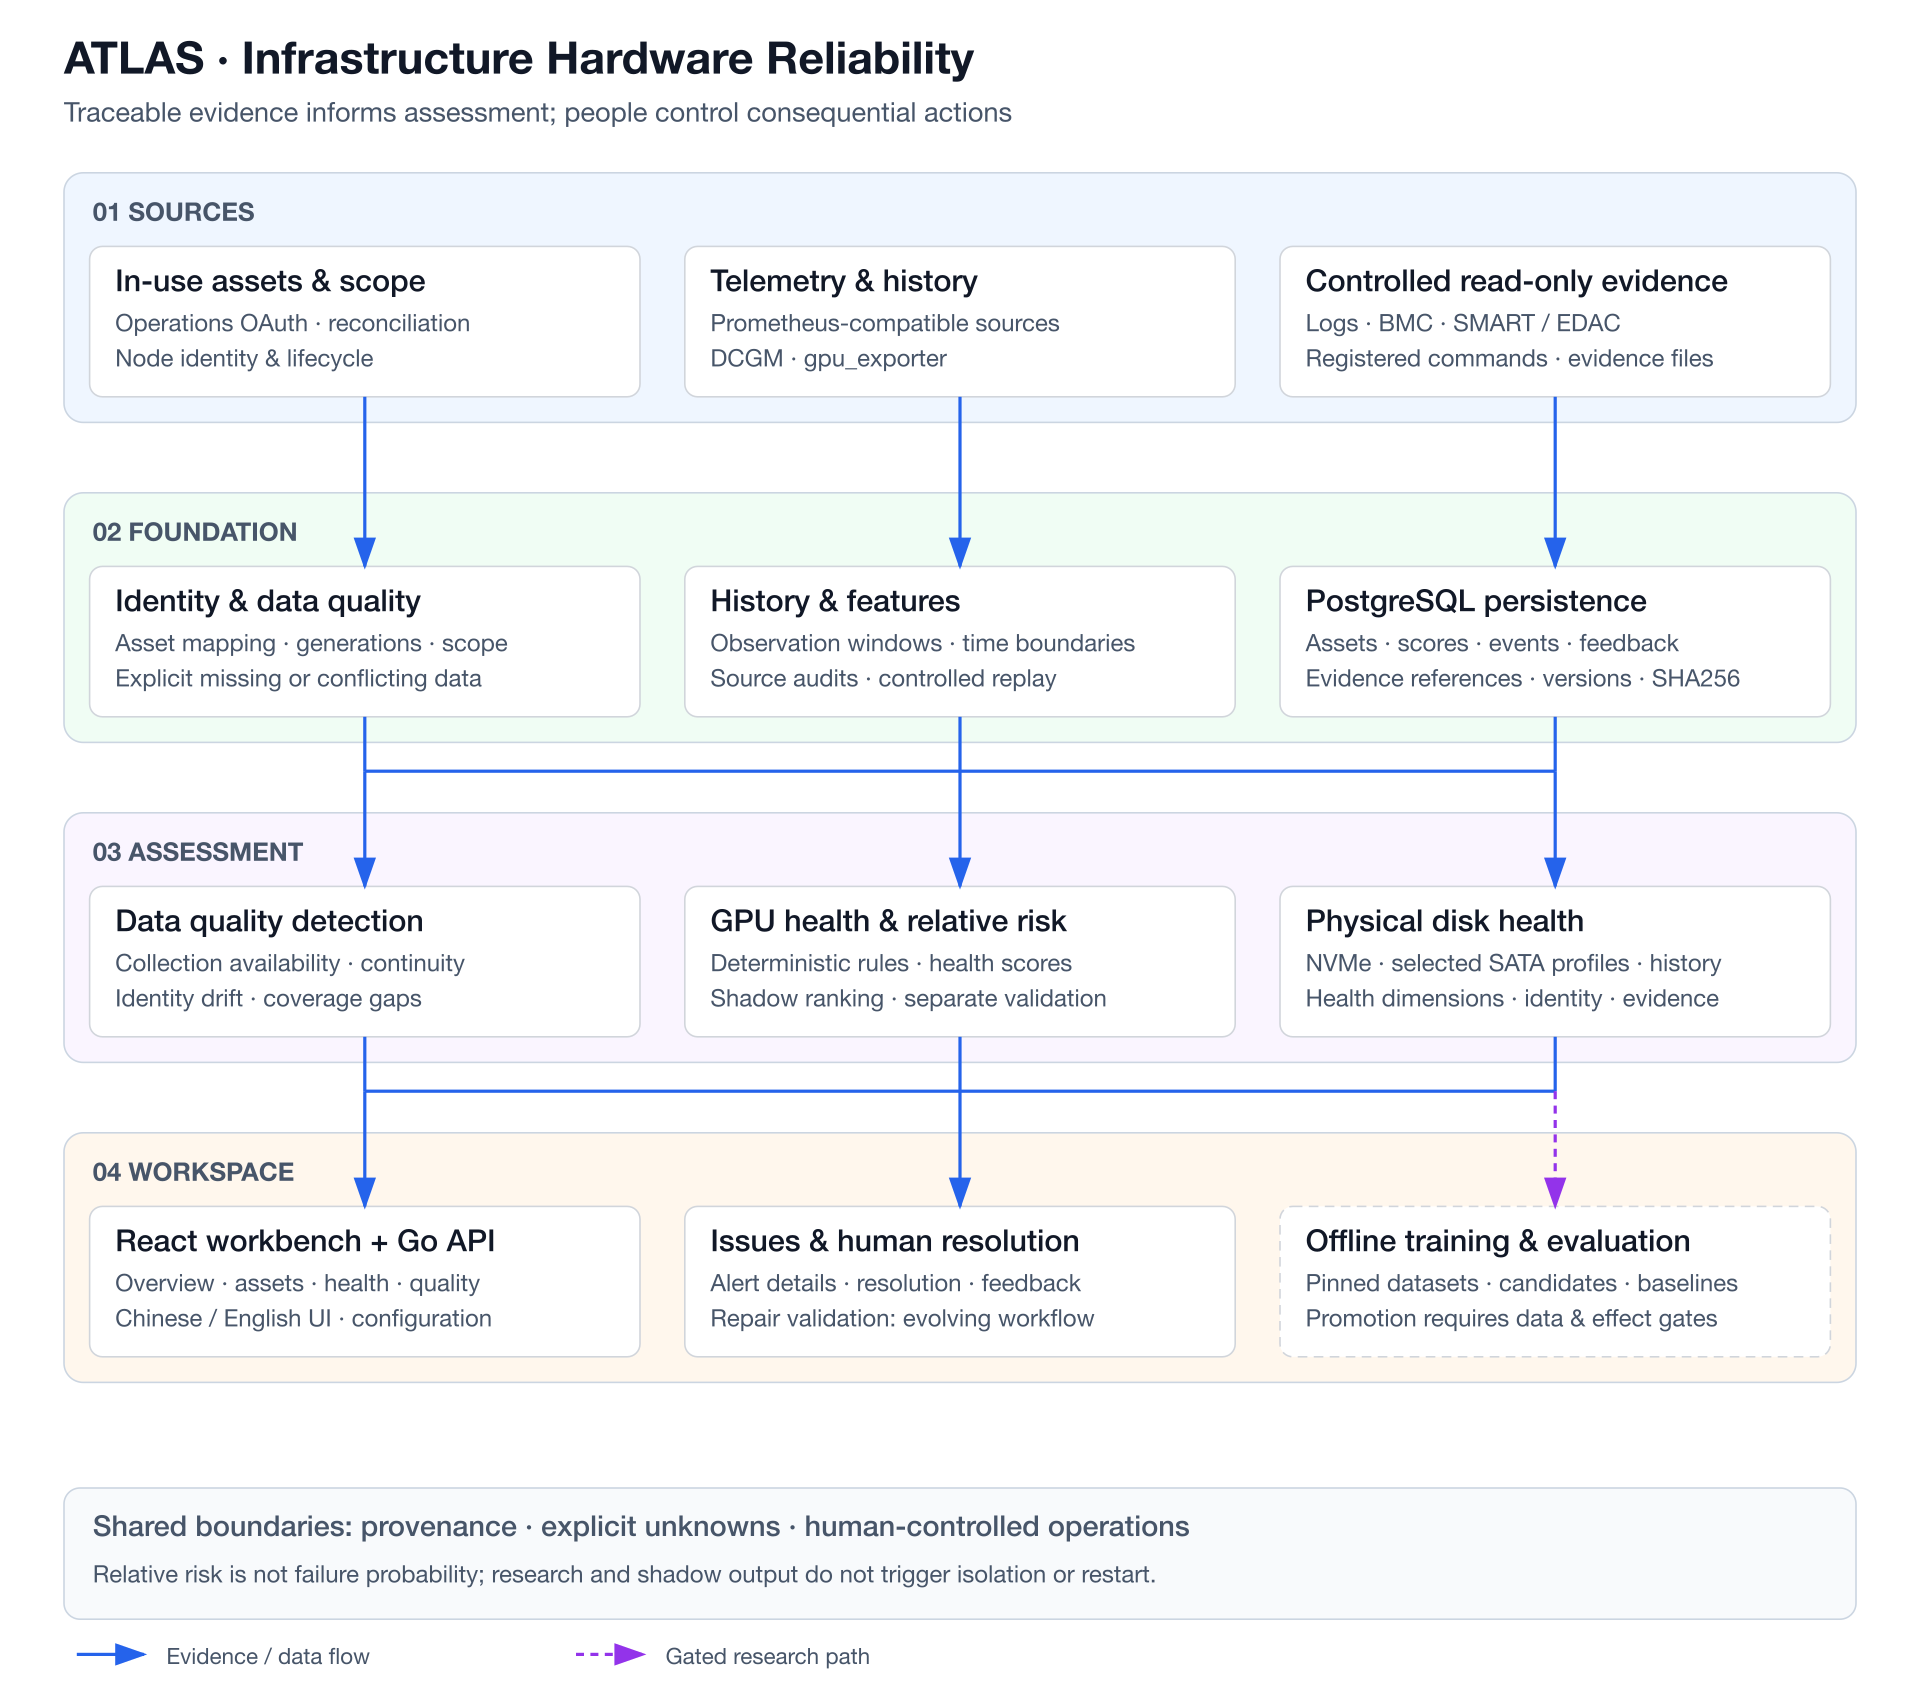
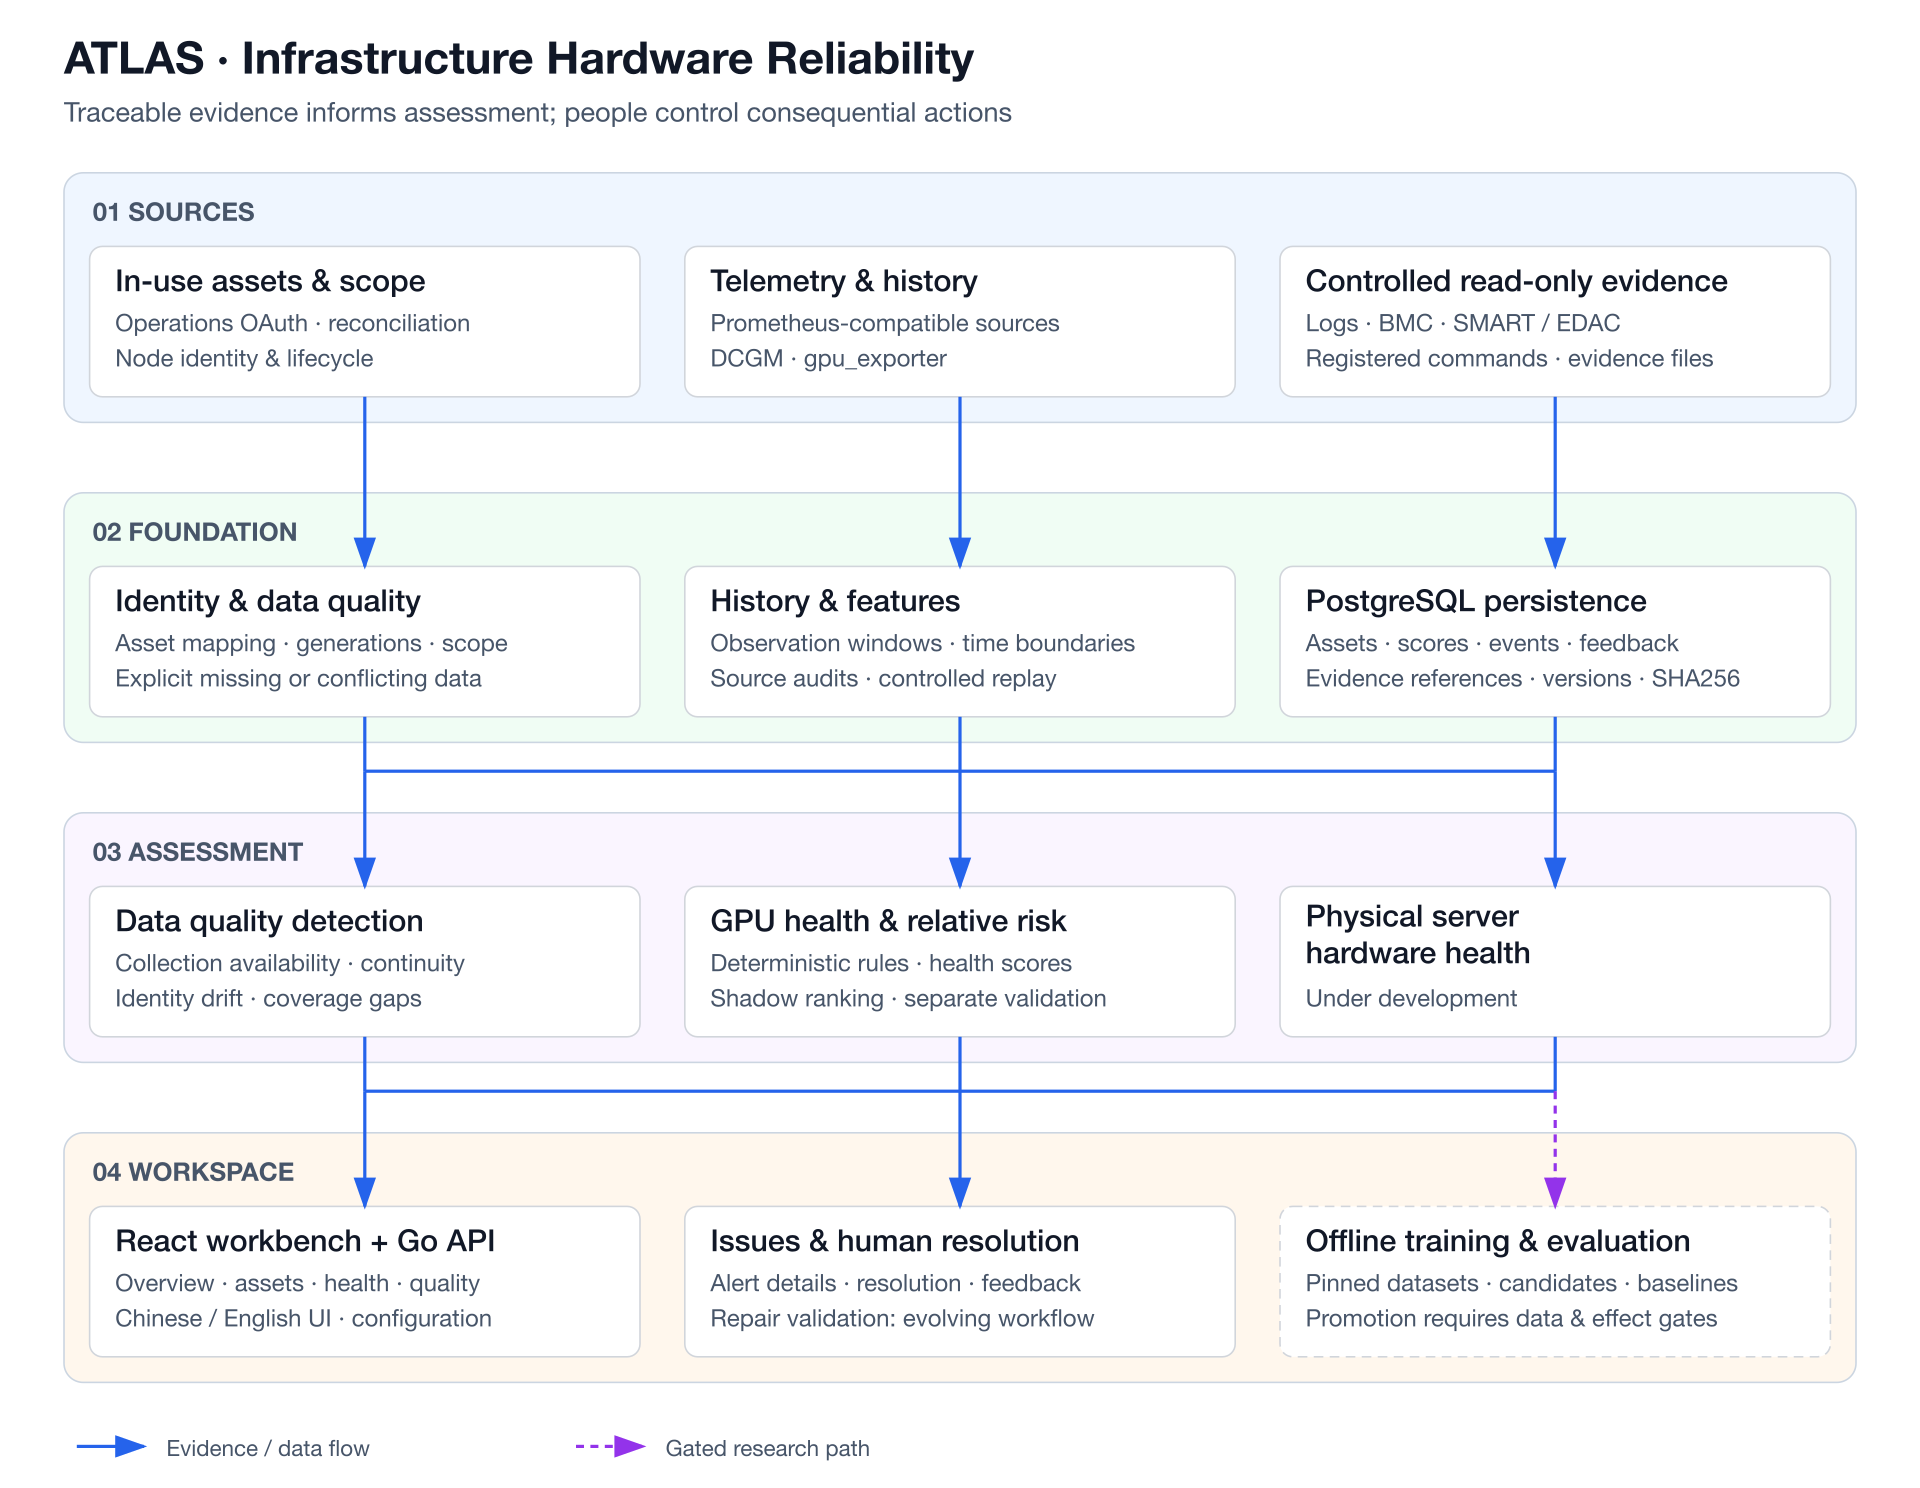
docs: refine bilingual architecture and remove source sync sections

diff --git a/scripts/generate_platform_architecture.py b/scripts/generate_platform_architecture.py
@@ -23,7 +23,7 @@ LAYERS = [
     ('assessment', ('评估与发现', 'ASSESSMENT'), '#faf5ff', [
         ('quality', ('数据质量发现', 'Data quality detection'), [('采集可用性 · 指标连续性', 'Collection availability · continuity'), ('身份偏差 · 覆盖缺口', 'Identity drift · coverage gaps')]),
         ('gpu', ('GPU 健康与相对风险', 'GPU health & relative risk'), [('确定性规则 · 可解释健康分', 'Deterministic rules · health scores'), ('影子排名 · 独立效果验证', 'Shadow ranking · separate validation')]),
-        ('disk', ('物理盘健康', 'Physical disk health'), [('NVMe · 有限型号 SATA · 历史', 'NVMe · selected SATA profiles · history'), ('分维度评估 · 身份与证据', 'Health dimensions · identity · evidence')]),
+        ('disk', ('物理服务器硬件健康', 'Physical server hardware health'), [('建设中', 'Under development')]),
     ]),
     ('workspace', ('产品工作台', 'WORKSPACE'), '#fff7ed', [
         ('product', ('React 工作台 + Go API', 'React workbench + Go API'), [('总览 · 资产 · 健康 · 数据质量', 'Overview · assets · health · quality'), ('中英文界面 · 实例配置', 'Chinese / English UI · configuration')]),
@@ -39,12 +39,12 @@ def render(lang):
     def add(s): lines.append(s)
     def text(x, y, value, size=16, weight=400, color='#475569'):
         add(f'<text x="{x}" y="{y}" font-size="{size}" font-weight="{weight}" fill="{color}">{escape(value)}</text>')
-    add(f'<svg xmlns="http://www.w3.org/2000/svg" viewBox="0 0 1200 1060" role="img" aria-labelledby="title desc" lang="{lang}">')
+    add(f'<svg xmlns="http://www.w3.org/2000/svg" viewBox="0 0 1200 930" role="img" aria-labelledby="title desc" lang="{lang}">')
     add(f'<title id="title">{pick(("ATLAS 平台架构", "ATLAS Platform Architecture"))}</title>')
     add(f'<desc id="desc">{pick(("证据来源、数据基础、评估发现、工作台及受门禁控制的离线研究。", "Evidence sources, data foundation, assessment, workspace and gated offline research."))}</desc>')
     add('<style>text {font-family:"Helvetica Neue",Arial,"PingFang SC","Microsoft YaHei",sans-serif}</style>')
     add('<defs><marker id="arrow" markerWidth="10" markerHeight="7" refX="9" refY="3.5" orient="auto"><path d="M0 0 L10 3.5 L0 7Z" fill="#2563eb"/></marker><marker id="research-arrow" markerWidth="10" markerHeight="7" refX="9" refY="3.5" orient="auto"><path d="M0 0 L10 3.5 L0 7Z" fill="#9333ea"/></marker></defs>')
-    add('<rect width="1200" height="1060" fill="#ffffff"/>')
+    add('<rect width="1200" height="930" fill="#ffffff"/>')
     text(40, 46, pick(('ATLAS · 基础设施硬件可靠性工作台', 'ATLAS · Infrastructure Hardware Reliability')), 28, 700, '#111827')
     text(40, 76, pick(('真实证据驱动评估，人工掌握处置权', 'Traceable evidence informs assessment; people control consequential actions')), 17)
     for index, (layer_id, name, tint, nodes) in enumerate(LAYERS):
@@ -55,8 +55,14 @@ def render(lang):
             x = 56 + col * 372
             dashed = ' stroke-dasharray="6 4"' if node_id == 'research' else ''
             add(f'<g id="{node_id}"><rect x="{x}" y="{y+46}" width="344" height="94" rx="8" fill="#ffffff" stroke="#d1d5db"{dashed}/>')
-            text(x + 16, y + 74, pick(title), 19, 600, '#111827')
-            for row, sub in enumerate(subtitles): text(x + 16, y + 99 + row * 22, pick(sub), 15)
+            if node_id == 'disk':
+                # Both locales use the same two-line title geometry.
+                text(x + 16, y + 71, pick(('物理服务器', 'Physical server')), 19, 600, '#111827')
+                text(x + 16, y + 94, pick(('硬件健康', 'hardware health')), 19, 600, '#111827')
+                text(x + 16, y + 121, pick(subtitles[0]), 15)
+            else:
+                text(x + 16, y + 74, pick(title), 19, 600, '#111827')
+                for row, sub in enumerate(subtitles): text(x + 16, y + 99 + row * 22, pick(sub), 15)
             add('</g>')
         add('</g>')
     # Same-column ingestion, followed by shared foundation / assessment buses.
@@ -70,13 +76,10 @@ def render(lang):
             color, marker = ('#9333ea', 'research-arrow') if optional else ('#2563eb', 'arrow')
             dash = ' stroke-dasharray="5 4"' if optional else ''
             add(f'<path id="{prefix}-target-{x}" d="M{x} {bus} V{bottom}" stroke="{color}" stroke-width="2" fill="none" marker-end="url(#{marker})"{dash}/>')
-    add('<rect x="40" y="930" width="1120" height="82" rx="10" fill="#f8fafc" stroke="#cbd5e1"/>')
-    text(58, 960, pick(('共同边界：来源与证据可追溯 · 未知不补零 · 人工确认关键操作', 'Shared boundaries: provenance · explicit unknowns · human-controlled operations')), 18, 600)
-    text(58, 989, pick(('相对风险不等于故障概率；研究与影子输出不自动触发隔离或重启。', 'Relative risk is not failure probability; research and shadow output do not trigger isolation or restart.')), 15)
-    add('<path d="M48 1034 H90" stroke="#2563eb" stroke-width="2" marker-end="url(#arrow)"/>')
-    text(104, 1040, pick(('证据 / 数据流', 'Evidence / data flow')), 14)
-    add('<path d="M360 1034 H402" stroke="#9333ea" stroke-width="2" stroke-dasharray="5 4" marker-end="url(#research-arrow)"/>')
-    text(416, 1040, pick(('受门禁控制的研究路径', 'Gated research path')), 14)
+    add('<path d="M48 904 H90" stroke="#2563eb" stroke-width="2" marker-end="url(#arrow)"/>')
+    text(104, 910, pick(('证据 / 数据流', 'Evidence / data flow')), 14)
+    add('<path d="M360 904 H402" stroke="#9333ea" stroke-width="2" stroke-dasharray="5 4" marker-end="url(#research-arrow)"/>')
+    text(416, 910, pick(('受门禁控制的研究路径', 'Gated research path')), 14)
     add('</svg>')
     return '\n'.join(lines) + '\n'
 

diff --git a/README.md b/README.md
@@ -52,16 +52,6 @@ The platform organizes evidence, data foundations, reliability capabilities, and
 
 Atlas is being developed iteratively. The current focus is to strengthen the end-to-end reliability workflow while expanding the quality, prediction, validation, and knowledge capabilities behind it. Capability labels in this README describe product maturity rather than a fixed release promise.
 
-## Source Sync
-
-Push the current source commit to both repositories without building or deploying:
-
-```bash
-bash scripts/deploy_remote_source.sh --push-only
-```
-
-Requires Git and Python 3. GitHub (`git@github.com:CraftsmanChain/Atlas.git`) and GitLab (`http://10.255.151.17:9091/sre/atlas.git`) run concurrently and report results independently; either failure produces a nonzero overall exit code. Override each destination with `GITHUB_PUSH_TARGET` / `GITLAB_PUSH_TARGET`, and the default 60-second timeout with `GIT_PUSH_TIMEOUT_SECONDS`. `BRANCH` selects the destination branch (current branch by default); `EXPECTED_COMMIT` can pin the source commit. For normal deployment, `SKIP_GIT_PUSH=1` skips source pushes; it does not mean both repositories are synchronized.
-
 ## Contributing
 
 Issues and pull requests are welcome. Before proposing a large change, please open an issue to align on its product scope, user impact, and validation approach. Do not include credentials, private infrastructure addresses, customer data, or other sensitive operational information in public submissions.
